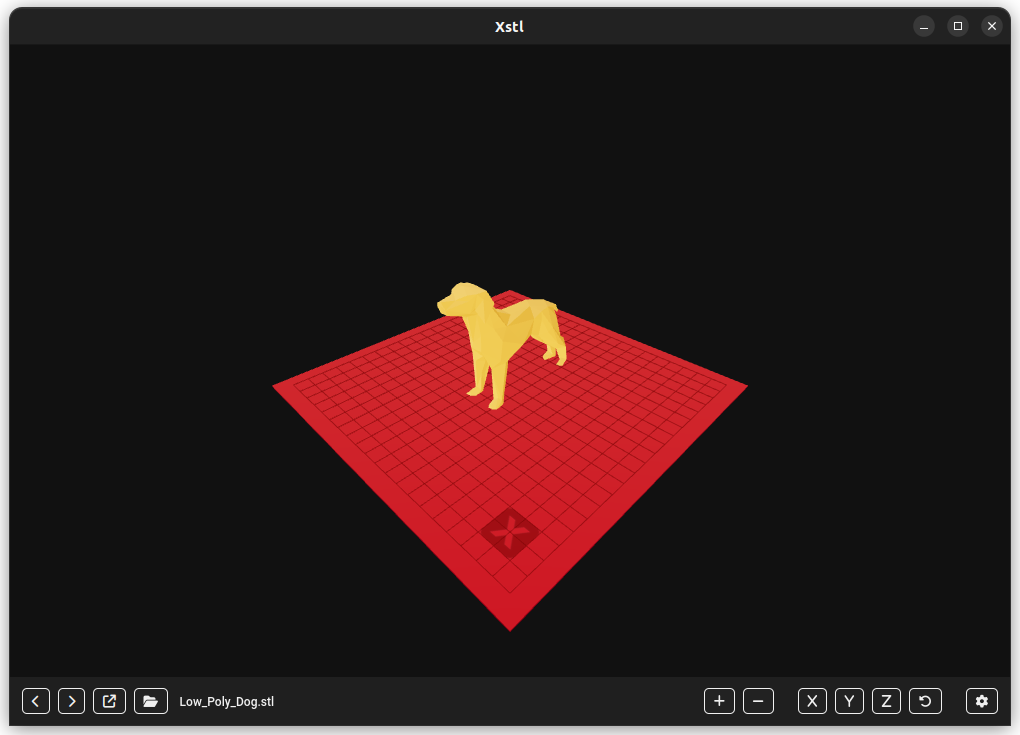
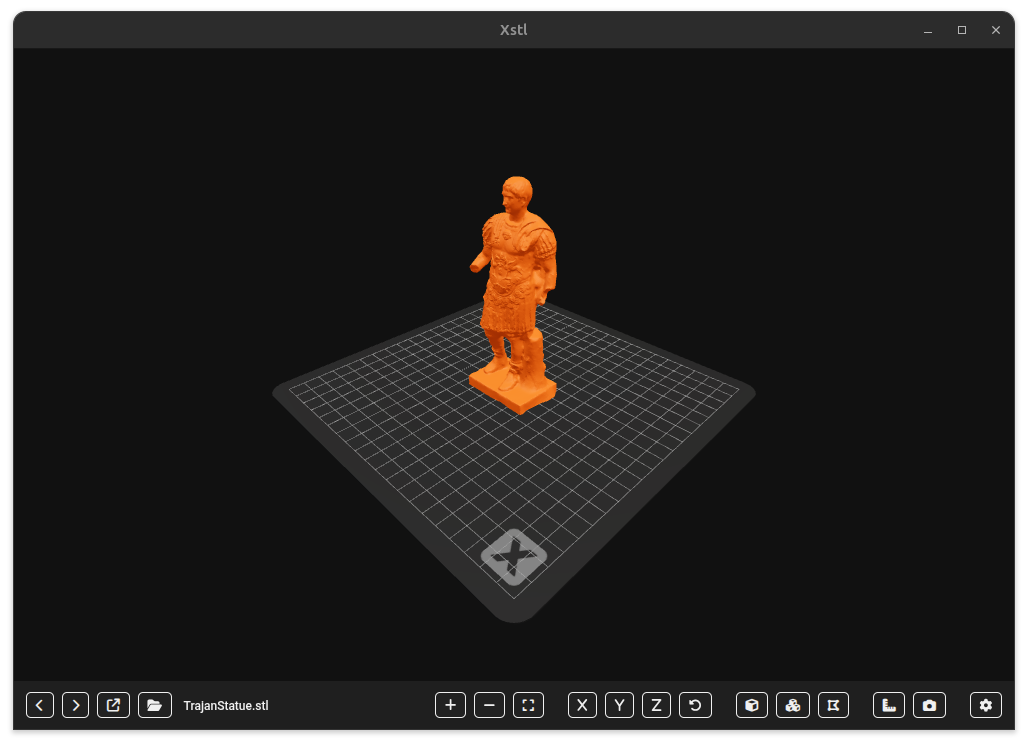
feat: Updated docs version

Changed region(s): [[0.0, 0.0, 1.0, 1.0], [0.2431, 0.2395, 0.7294, 0.868]]

diff --git a/docs/index.html b/docs/index.html
@@ -55,7 +55,7 @@
           <ul class="hero-actions">
             <li>
               <a target="_blank"
-                href="https://github.com/emanuelescarabattoli/xstl/releases/download/v1.0.6/Xstl_1.0.6_amd64.deb"
+                href="https://github.com/emanuelescarabattoli/xstl/releases/download/v1.0.7/Xstl_1.0.7_amd64.deb"
                 class="download-button">
                 <div>
                   <i class="fab fa-linux"></i>
@@ -68,7 +68,7 @@
             </li>
             <li>
               <a target="_blank"
-                href="https://github.com/emanuelescarabattoli/xstl/releases/download/v1.0.6/Xstl-1.0.6.AppImage"
+                href="https://github.com/emanuelescarabattoli/xstl/releases/download/v1.0.7/Xstl-1.0.7.AppImage"
                 class="download-button">
                 <div>
                   <i class="fab fa-linux"></i>
@@ -81,7 +81,7 @@
             </li>
             <li>
               <a target="_blank"
-                href="https://github.com/emanuelescarabattoli/xstl/releases/download/v1.0.6/Xstl.Setup.1.0.6.exe"
+                href="https://github.com/emanuelescarabattoli/xstl/releases/download/v1.0.7/Xstl.Setup.1.0.7.exe"
                 class="download-button">
                 <div>
                   <i class="fab fa-windows"></i>
@@ -110,7 +110,7 @@
           <p>
             Xstl is a free and open-source STL viewer for Linux and Windows, build with modern tools, Electron and
             React. With Xstl you can open an STL file and navigate trough a directory to see all the STL files on it,
-            buy using buttons or with a shortcut (`alt+z` and `alt+x`). The default view is isometric, so you can see
+            buy using buttons or with arrow keys. The default view is isometric, so you can see
             all the details of your model.
           </p>
         </div>
@@ -123,7 +123,7 @@
         <ul class="download-actions">
           <li>
             <a target="_blank"
-              href="https://github.com/emanuelescarabattoli/xstl/releases/download/v1.0.6/Xstl_1.0.6_amd64.deb"
+              href="https://github.com/emanuelescarabattoli/xstl/releases/download/v1.0.7/Xstl_1.0.7_amd64.deb"
               class="download-button">
               <div>
                 <i class="fab fa-linux"></i>
@@ -136,7 +136,7 @@
           </li>
           <li>
             <a target="_blank"
-              href="https://github.com/emanuelescarabattoli/xstl/releases/download/v1.0.6/Xstl-1.0.6.AppImage"
+              href="https://github.com/emanuelescarabattoli/xstl/releases/download/v1.0.7/Xstl-1.0.7.AppImage"
               class="download-button">
               <div>
                 <i class="fab fa-linux"></i>
@@ -149,7 +149,7 @@
           </li>
           <li>
             <a target="_blank"
-              href="https://github.com/emanuelescarabattoli/xstl/releases/download/v1.0.6/Xstl.Setup.1.0.6.exe"
+              href="https://github.com/emanuelescarabattoli/xstl/releases/download/v1.0.7/Xstl.Setup.1.0.7.exe"
               class="download-button">
               <div>
                 <i class="fab fa-windows"></i>